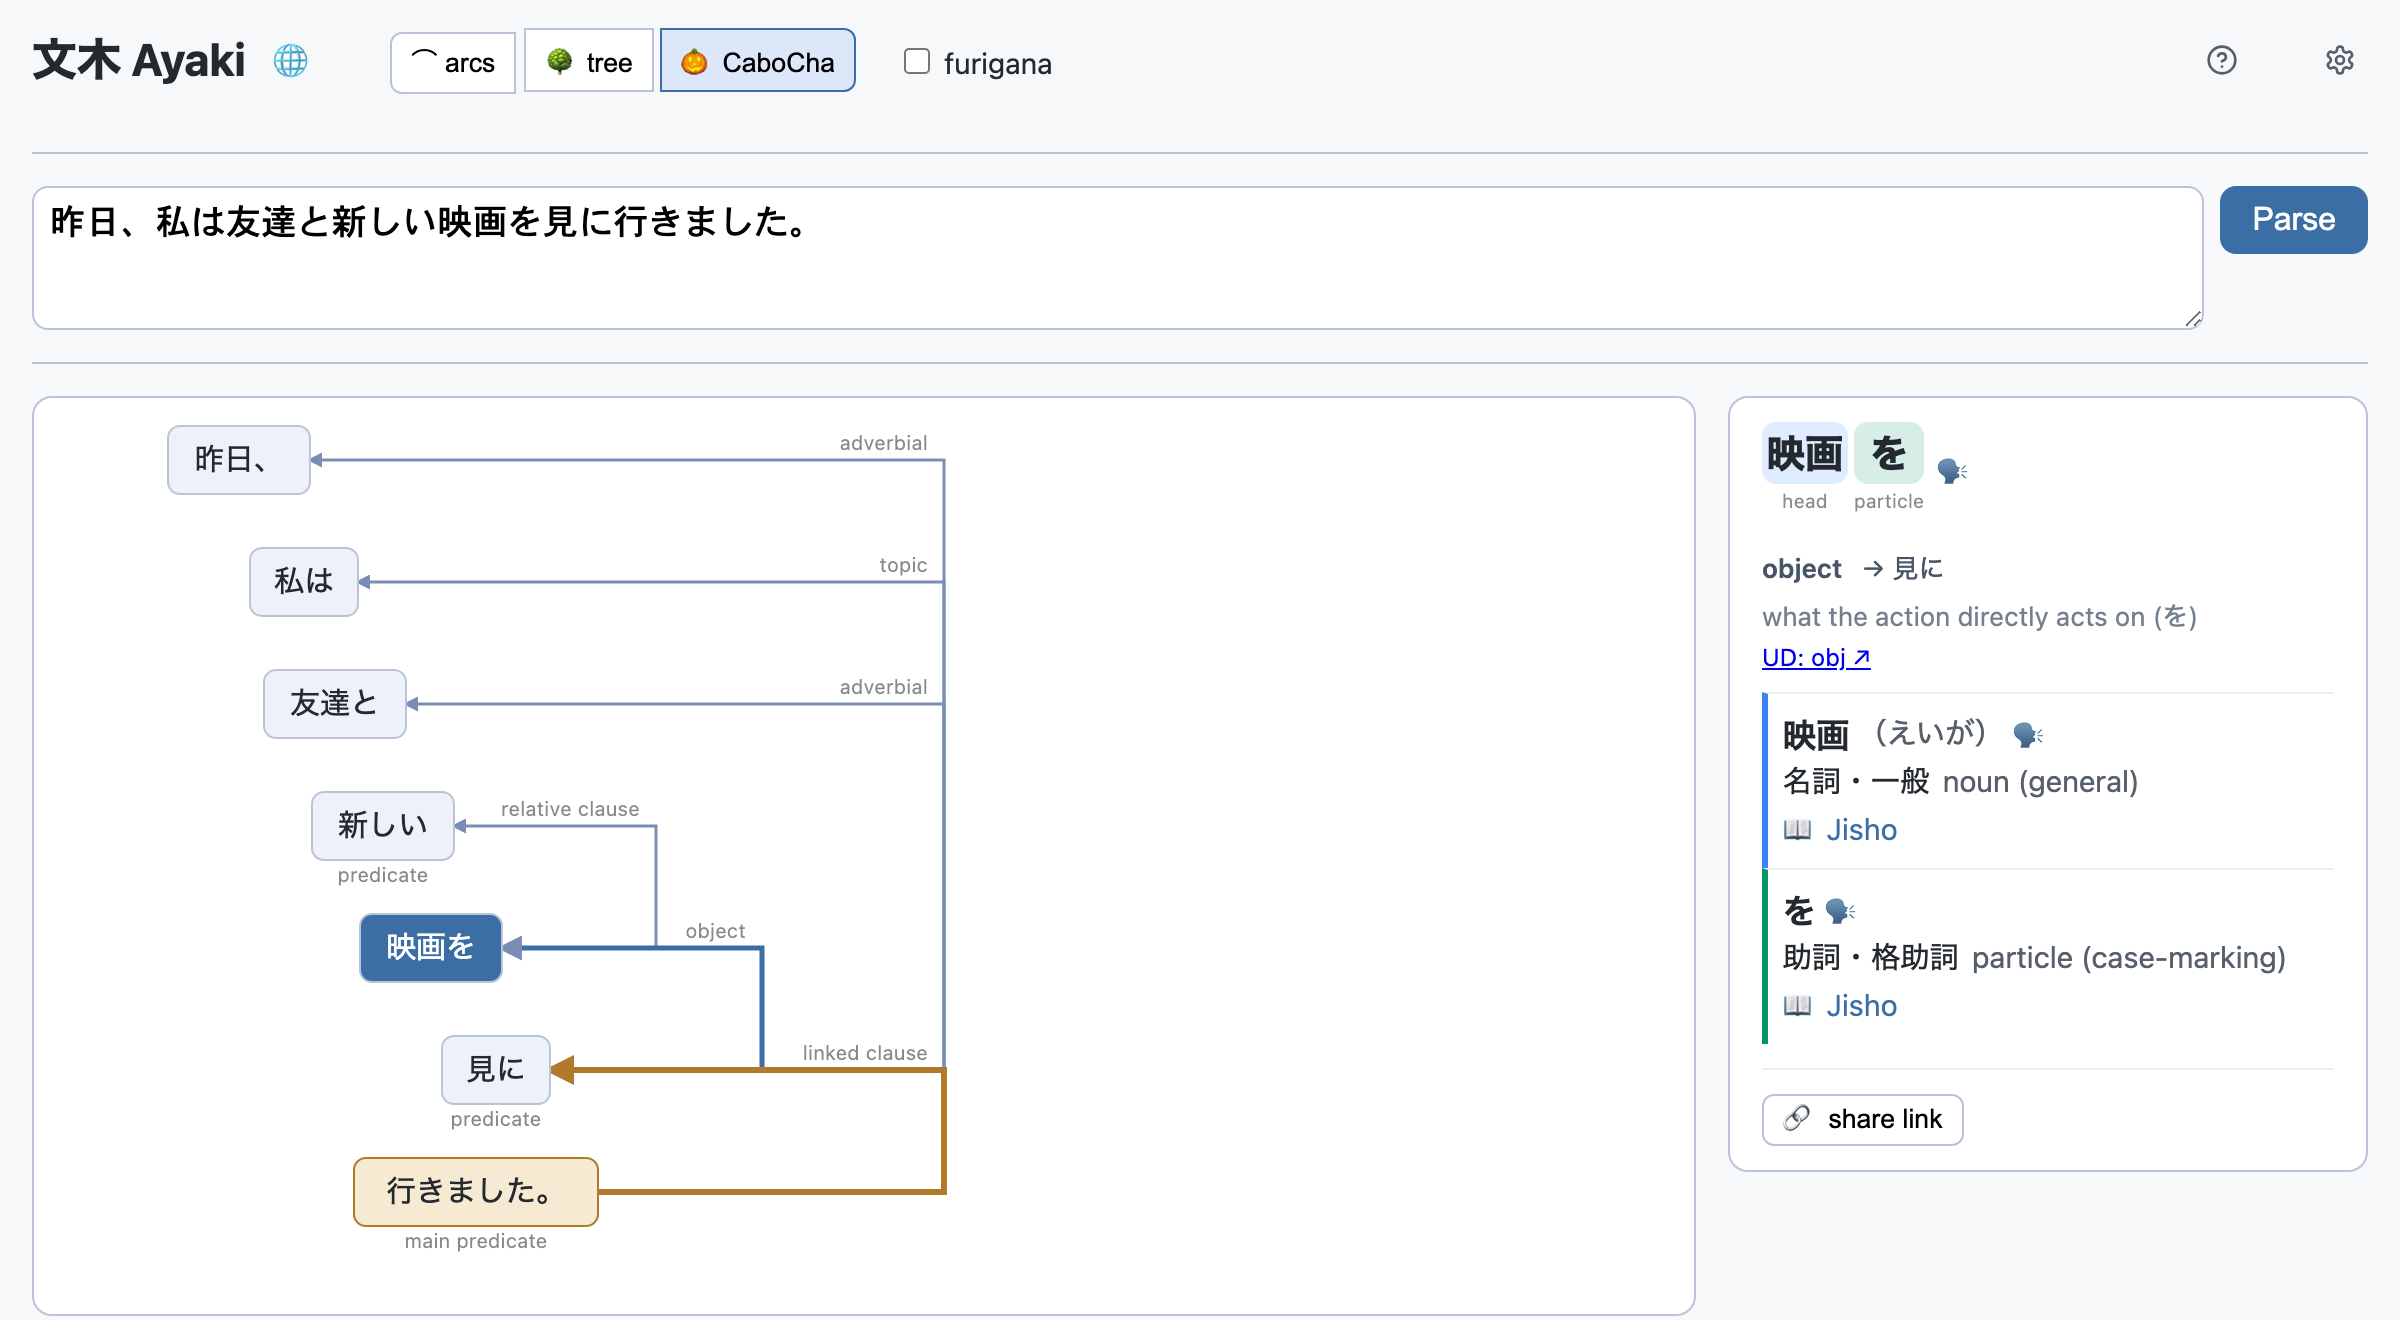
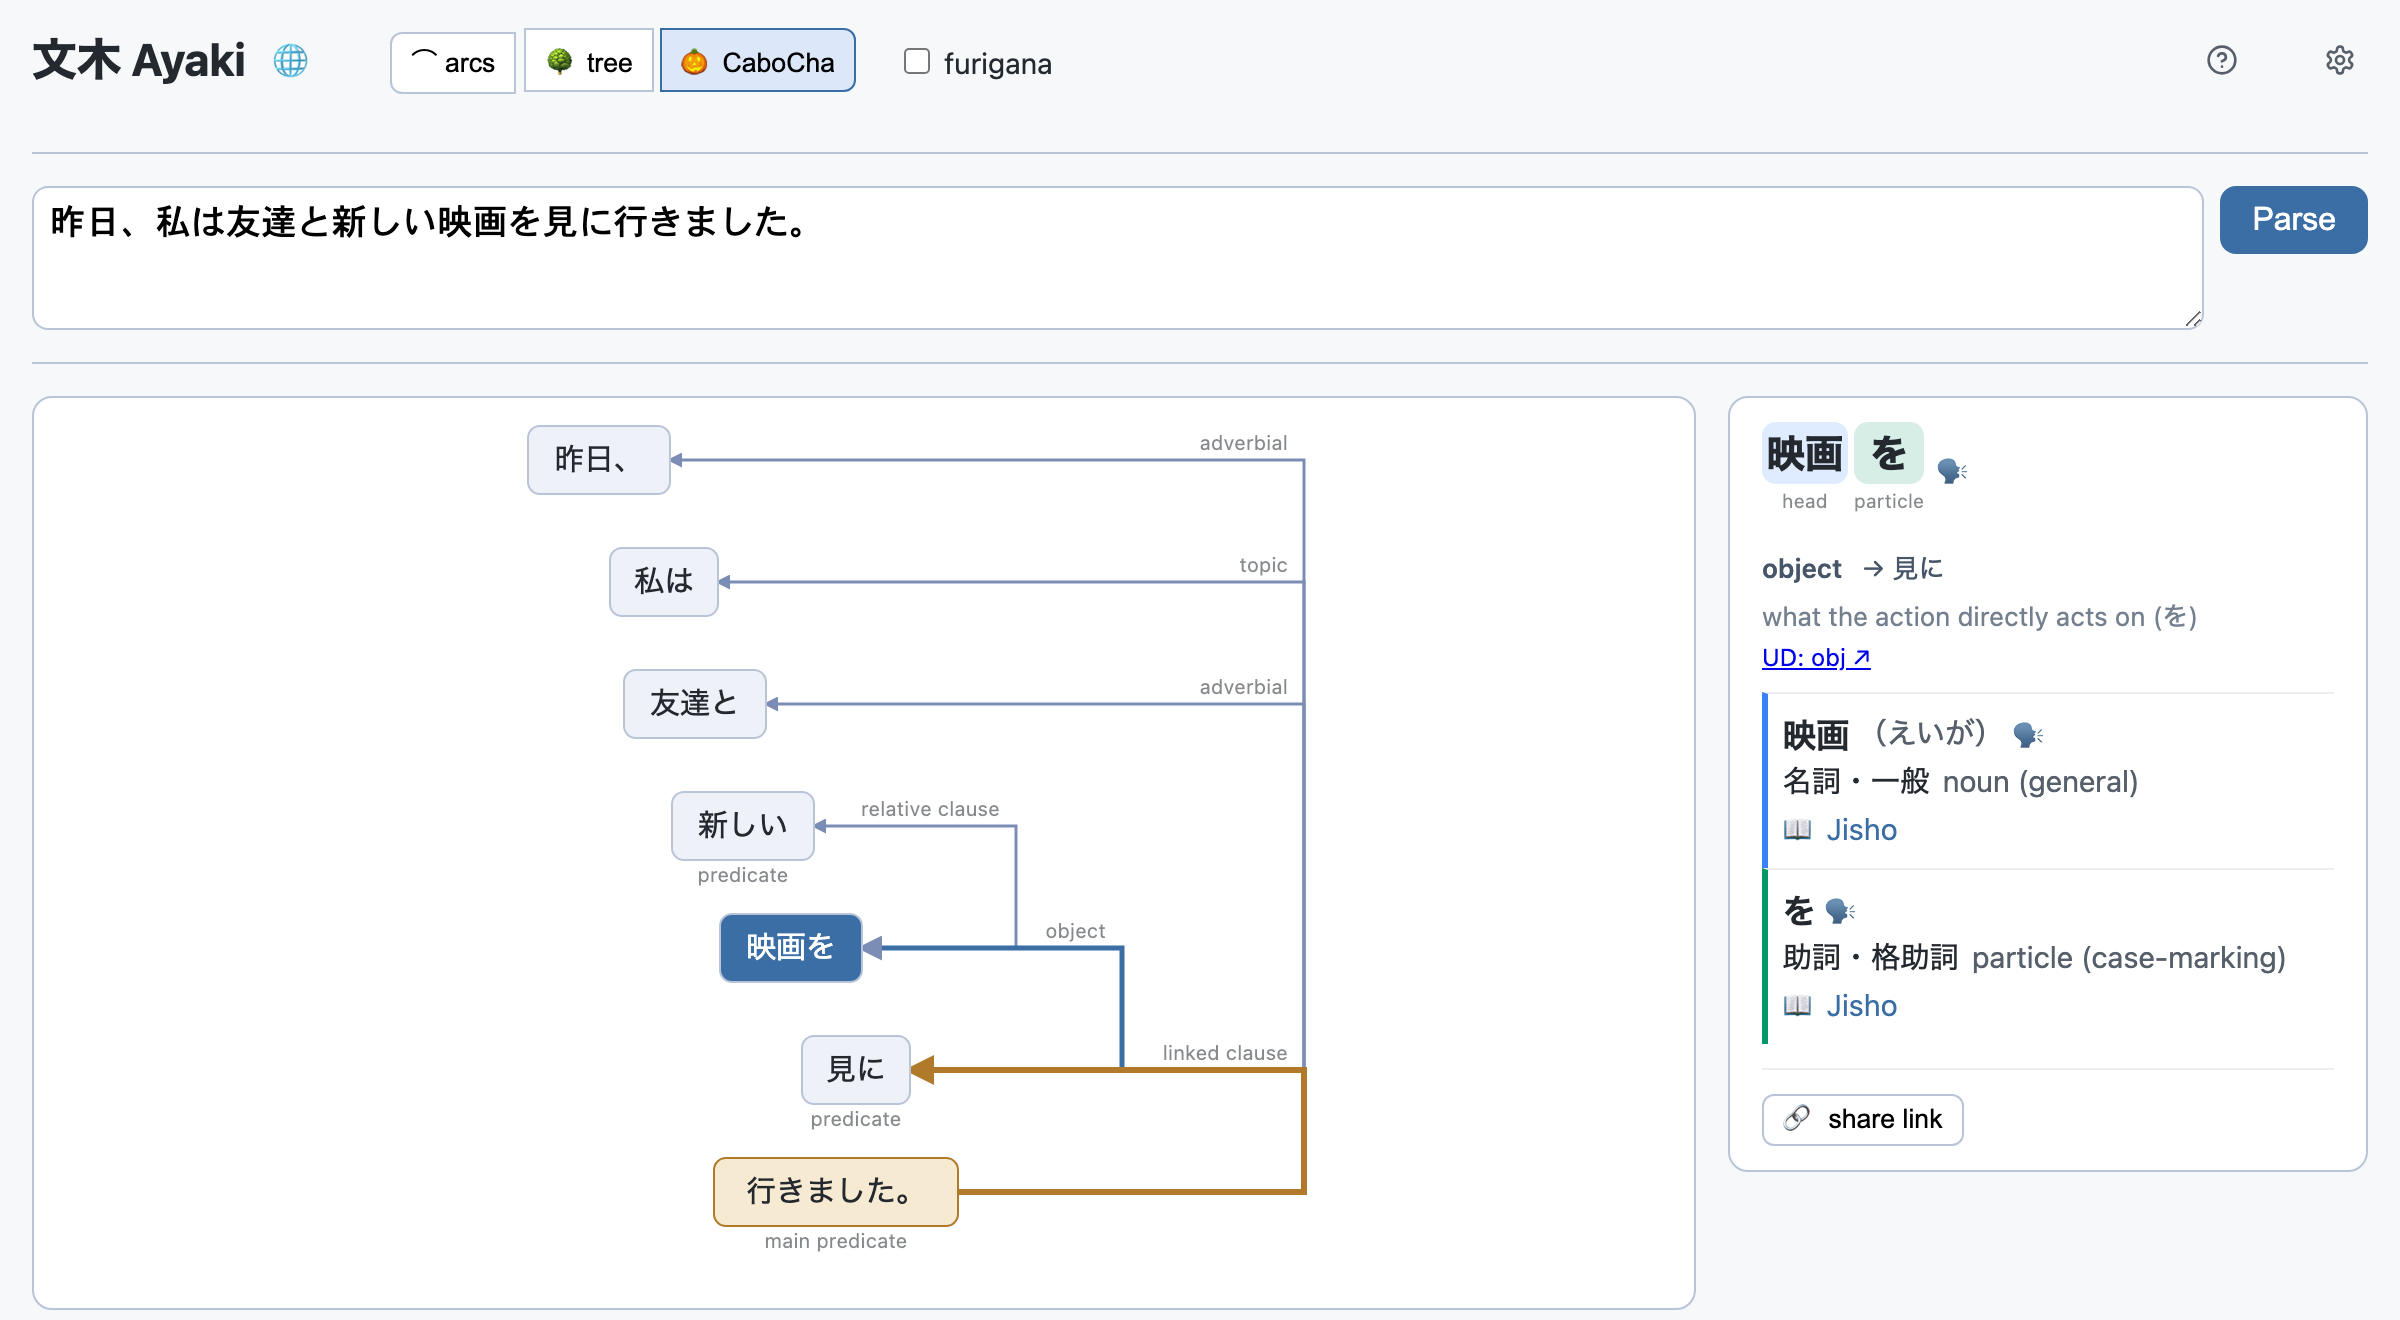
feat: center views in their cards; give the tree's left bracket room (#30)
Center the diagram SVG within .tree-scroll (margin-inline: auto) in all three
views — narrower-than-card diagrams center, wider ones still scroll from the
left. Give NodeTree a left gutter via a negative-origin viewBox so a left-side
extent bracket seats into it with a clean 8px arm-to-box gap instead of
clamping against (and overlapping) the flush-left clause column.

diff --git a/tests/components/NodeTree.test.ts b/tests/components/NodeTree.test.ts
@@ -196,6 +196,29 @@ describe('NodeTree', () => {
       const m = container.querySelector('.extent-bracket')!.getAttribute('d')!.match(/H (-?[\d.]+) V/)!
       expect(Number(m[1])).toBeGreaterThanOrEqual(maxX)
     })
+    it('keeps a full gap from the nodes on a leftmost clause (uses the left gutter)', () => {
+      // clause 持って、(3) is the leftmost column, foreign boxes (私は/家に/帰った)
+      // only on the right → the bracket goes left, into the gutter
+      const leftmost = [
+        bunsetsuFixture(0, '本屋で', 1, 0.9, 'ほんやで', [morphemeFixture()], 'adverbial'),
+        bunsetsuFixture(1, '買った', 2, 0.9, 'かった', [morphemeFixture()], 'relclause'),
+        bunsetsuFixture(2, '本を', 3, 0.9, 'ほんを', [morphemeFixture()], 'object'),
+        bunsetsuFixture(3, '持って、', 6, 0.9, 'もって', [morphemeFixture()], 'linkedclause'),
+        bunsetsuFixture(4, '私は', 6, 0.9, 'わたしは', [morphemeFixture()], 'topic'),
+        bunsetsuFixture(5, '家に', 6, 0.9, 'いえに', [morphemeFixture()], 'adverbial'),
+        bunsetsuFixture(6, '帰った。', null, null, 'かえった', [morphemeFixture()], 'predicate'),
+      ]
+      const { container } = render(NodeTree, { props: { bunsetsu: leftmost, onselect: () => {}, selected: 3 } })
+      const widths = leftmost.map((b) => textWidth(b.surface) + 20)
+      const l = layoutTree(widths, leftmost.map((b) => b.head))
+      const nodesIn = l.nodes.filter((n) => n.index >= 0 && n.index <= 3)
+      const minLeftEdge = Math.min(...nodesIn.map((n) => n.x - widths[n.index] / 2)) + 4 // + PAD_X
+      const x = Number(container.querySelector('.extent-bracket')!.getAttribute('d')!.match(/H (-?[\d.]+) V/)![1])
+      // the 6px arm (x → x+6) points at the boxes; it must leave a clean 8px gap,
+      // and the vertical bar lives in the negative gutter
+      expect(minLeftEdge - (x + 6)).toBe(8)
+      expect(x).toBeLessThan(0)
+    })
   })
   it('edges leave badge-less boxes flush at the bottom, badged boxes below the badge', () => {
     const { container } = render(NodeTree, { props: { bunsetsu: clauseB, onselect: () => {}, relationDisplay: 'arrows' } })

diff --git a/src/components/NodeTree.svelte b/src/components/NodeTree.svelte
@@ -34,6 +34,10 @@
   const BOX_H = 34
   const BOX_PAD = 10
   const PAD_X = 4
+  // left gutter: extends the canvas into negative x (via viewBox) so a left-side
+  // extent bracket keeps a full gap from the leftmost boxes instead of clamping
+  // against them when the clause is the flush-left column
+  const LGUT = 14
   const FURI_H = 16
   const REL_H = 15
 
@@ -104,7 +108,9 @@
       if (l >= maxX) rightGap = Math.min(rightGap, l - maxX)
     }
     const right = rightGap >= leftGap
-    const x = right ? Math.min(maxX + 8 + PAD_X, layout.width + 2 * PAD_X + 8) : Math.max(minX - 8 + PAD_X, 2)
+    // the 6px arm points back toward the nodes, so a left bracket seats 14px out
+    // (into the gutter) to leave a clean 8px arm-to-box gap; the floor keeps it on-canvas
+    const x = right ? Math.min(maxX + 8 + PAD_X, layout.width + 2 * PAD_X + 8) : Math.max(minX - 14 + PAD_X, 2 - LGUT)
     const tick = right ? -6 : 6
     const top = Math.min(...nodesIn.map((n) => n.y)) + topPad
     const bottom = Math.max(...nodesIn.map((n) => n.y)) + topPad + BOX_H + relH
@@ -114,8 +120,9 @@
 
 <div class="tree-scroll">
   <svg
-    width={layout.width + 2 * PAD_X + 12}
+    width={layout.width + 2 * PAD_X + 12 + LGUT}
     height={layout.height + BOX_H + 6 + topPad + relH}
+    viewBox="{-LGUT} 0 {layout.width + 2 * PAD_X + 12 + LGUT} {layout.height + BOX_H + 6 + topPad + relH}"
     class="nodetree"
     role="group"
     aria-label={t('treeGroupLabel')}

diff --git a/src/app.css b/src/app.css
@@ -56,6 +56,9 @@ header h1 { font-size: 1.4rem; margin: 0; }
 .card { background: #fff; border: 1px solid var(--box-stroke); border-radius: 10px; padding: 0.75rem; margin-bottom: 1rem; }
 .card.active { border-color: var(--accent); box-shadow: inset 0 0 0 1px var(--accent); }
 .tree-scroll { overflow-x: auto; }
+/* center a diagram narrower than its card; when wider, the auto margins collapse
+   to zero under overflow so it still scrolls from the left, nothing clipped */
+.tree-scroll svg { display: block; margin-inline: auto; }
 
 /* shared SVG styling for both views */
 svg .bunsetsu { cursor: pointer; outline: none; }